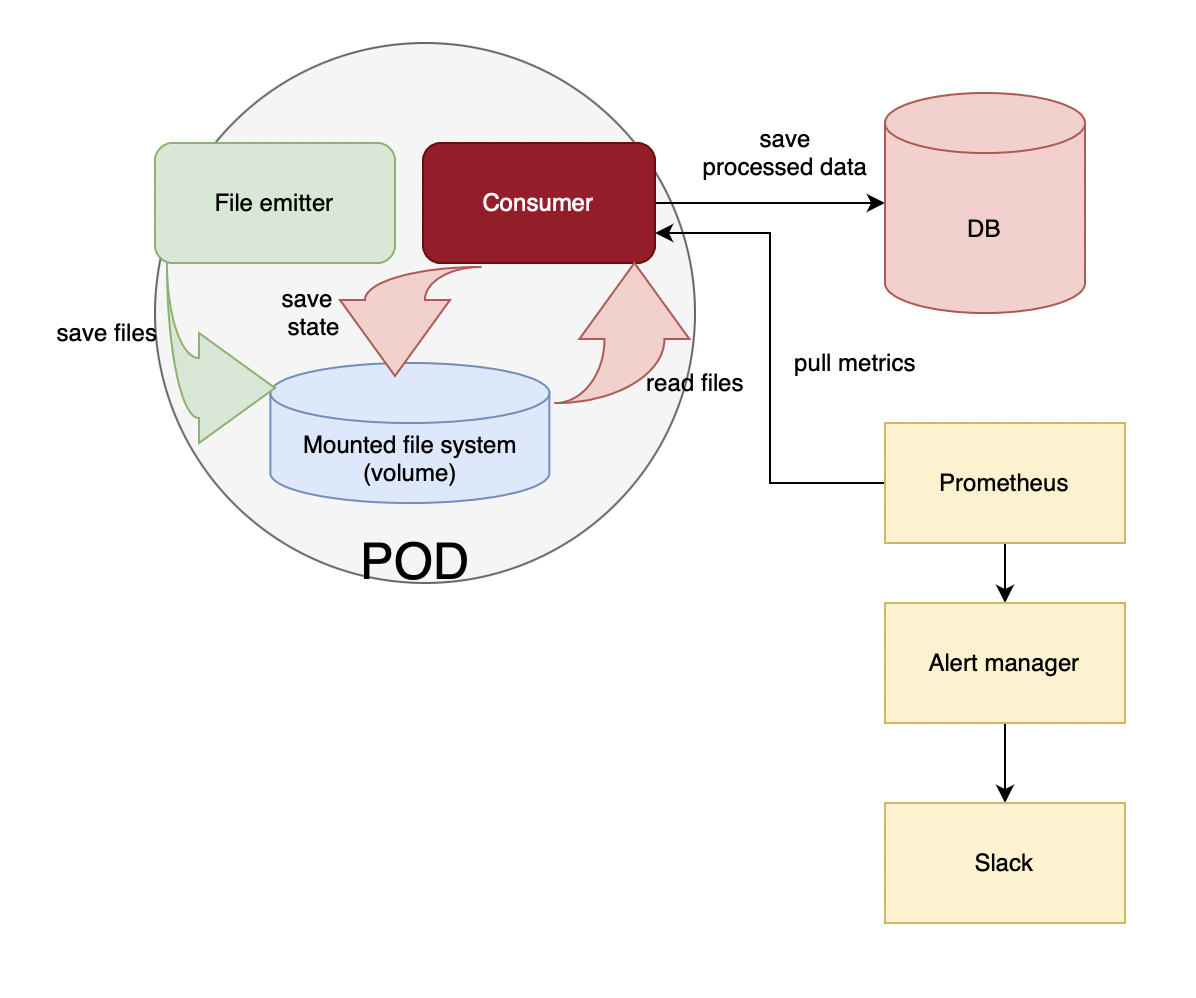
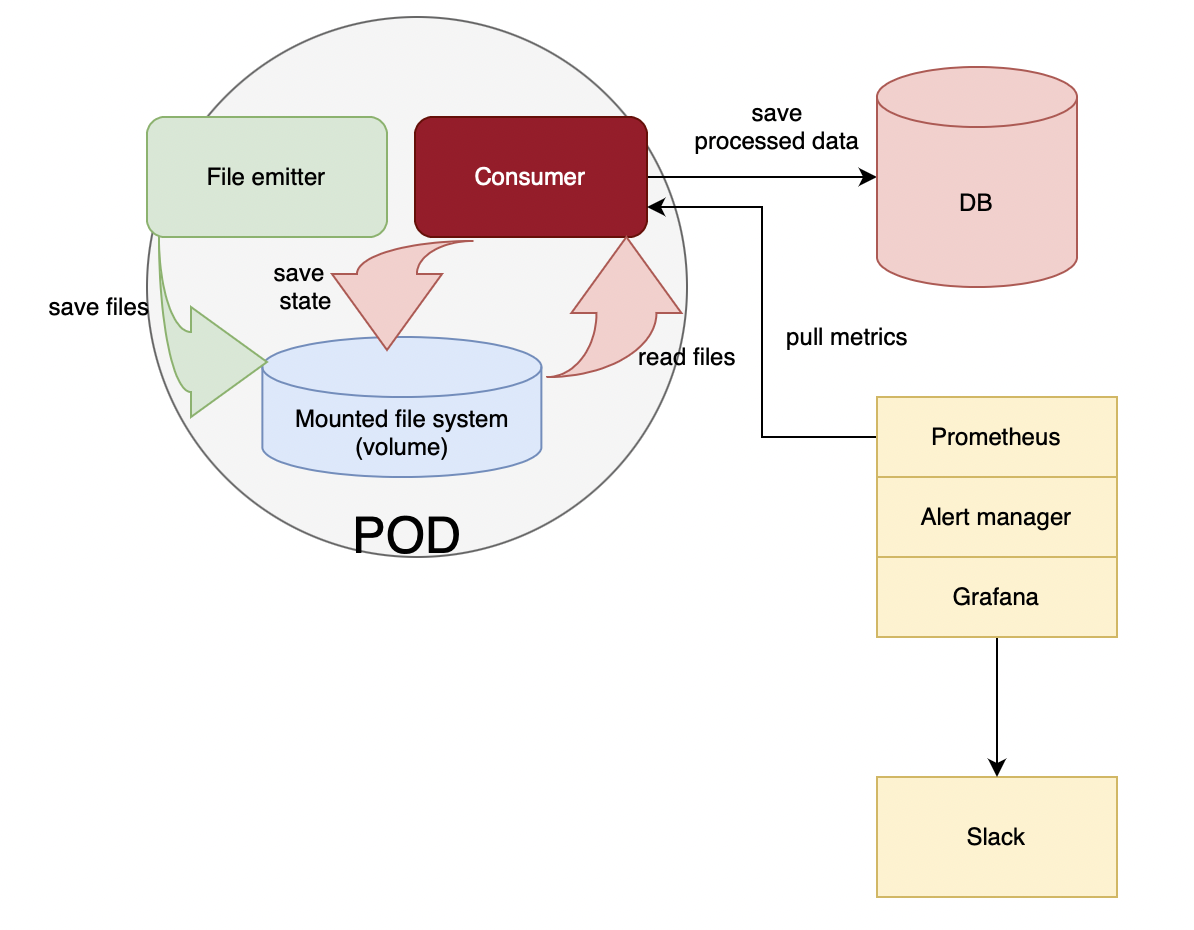
ref #1. Add potential bottlenecks, durability and observability section of option 1

diff --git a/design/Design.md b/design/Design.md
@@ -15,7 +15,14 @@ Let's look into the simplest case. We assume that
 - service emitting the data and saving it to the files (emitter) located in the same space (VM, Kubernetes Pod, etc). 
 - emitter saves the files to virtual file system eg mounted to /tmp folder or any volume in the container - now it doesn't matter
 - emitter and consumer are located in the same same space (VM, Kubernetes Pod, etc) and will not be able to work in the separate ones
-- The potential bottlenecks here is IO - the disk and the network. But we assume that the speed of the writing file works well and shouldn't be improved and the amount of collected data after processing makes much less than original ones and could be easily handled by the network channel provided us by the cloud
-- The durability of the service will be handled by some restart policy for example handled by container restart policy of Kubernetes with exponential backoff
-
 <img src="./img/pod-with-restart-policy.png" width="670">
+
+** Potential bottlenecks **
+Potential bottleneck here is IO - the disk and the network. But we assume that the speed of the writing file works well and shouldn't be improved and the amount of collected data after processing makes much less than original ones and could be easily handled by the network channel provided us by the cloud provider
+
+** Durability **
+The durability of the service will be handled by some restart policy for example by container restart policy of Kubernetes with exponential backoff
+
+** Observability **
+Observability of the service will be handled by Prometheus with Alert manager to send alerts to Slack in case of any incident.
+Grafana will be used to display statistics about failures that could be used to calculate potential SLO / SLI. 
